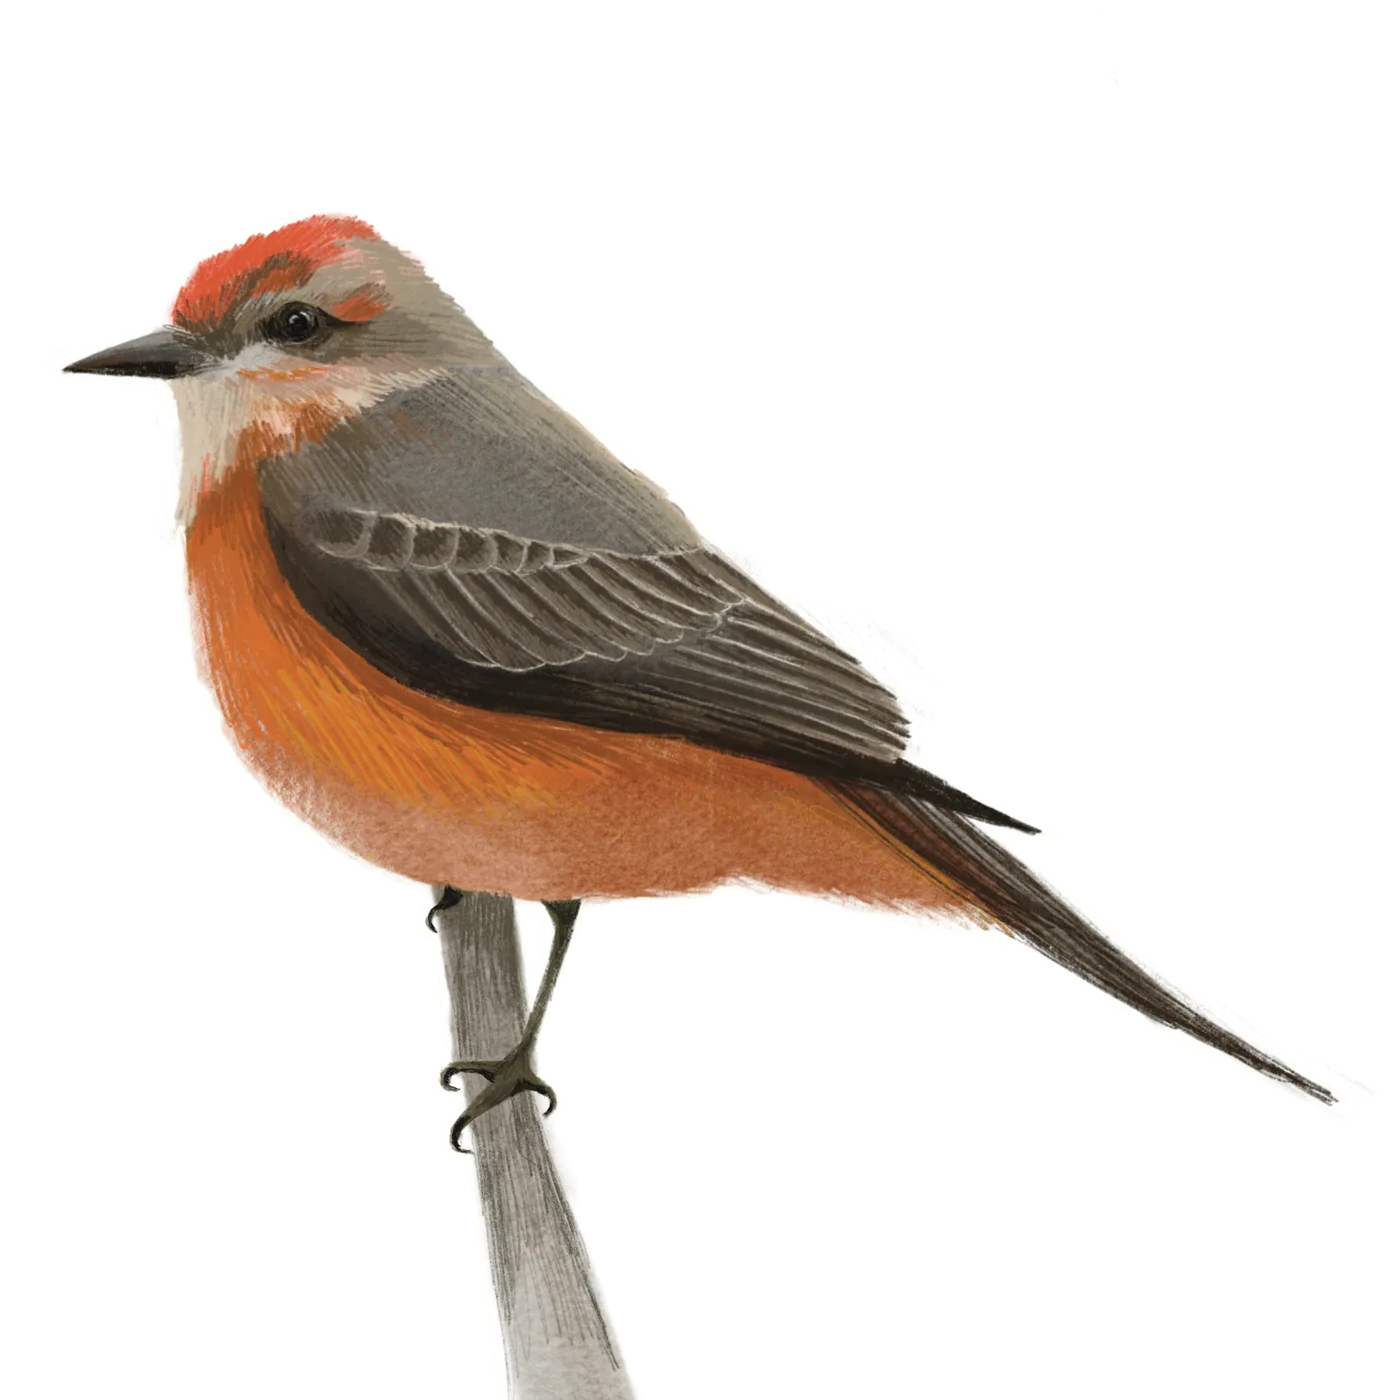
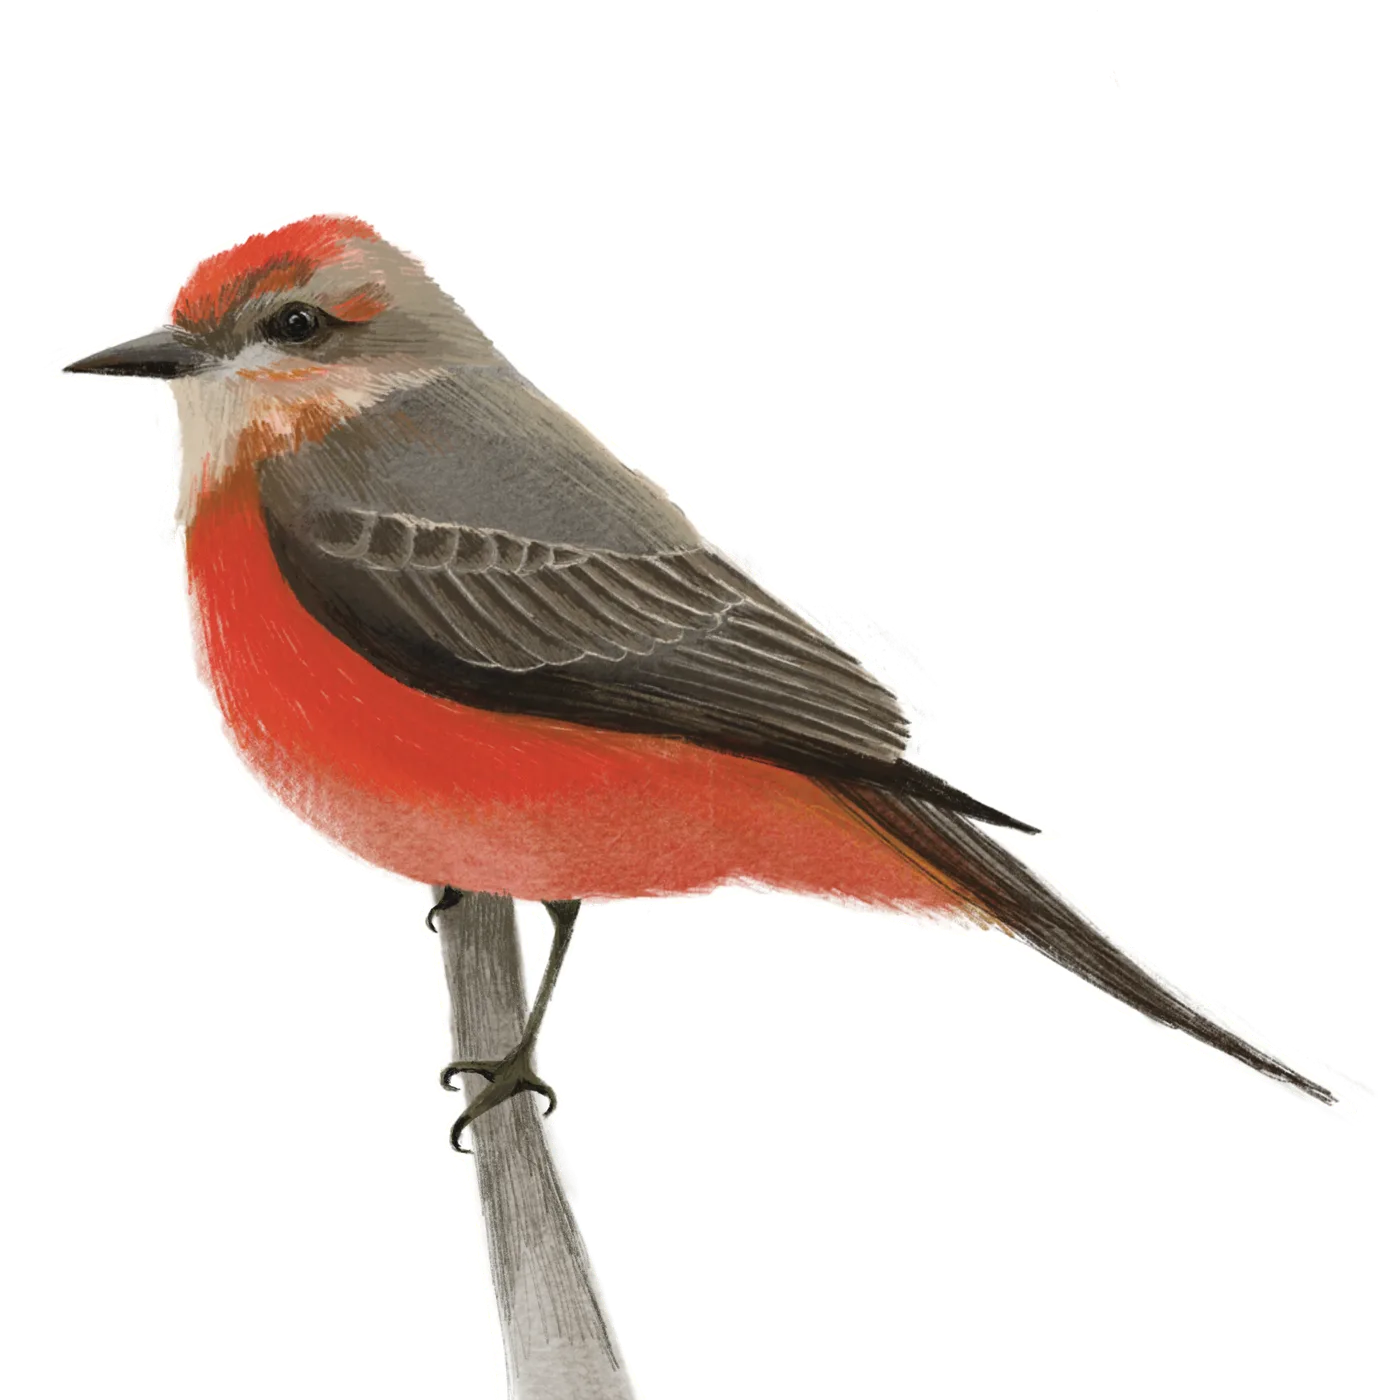
allow alternative names and add birds

Changed region(s): [[0.1229, 0.3686, 0.645, 0.645]]

diff --git a/src/data/artworks.js b/src/data/artworks.js
@@ -4,6 +4,7 @@
 // `observedOn` is the iNaturalist observation date, shown as written.
 // `conservationStatus` is optional: one of the IUCN Red List codes below.
 // `conservationUrl` (optional) links the status tag to the species' Red List page.
+// `altNames` (optional) lists other common names, shown as "Also known as …".
 // Shown in alphabetical order by common name.
 export const artworks = [
   {
@@ -155,6 +156,72 @@ export const artworks = [
     observedOn: 'May 20, 2016 · 11:52 AM CEST',
     hasSketch: true,
     conservationStatus: 'LC',
+  },
+  {
+    id: 'florida_scrub_jay',
+    name: 'Florida Scrub-Jay',
+    scientificName: 'Aphelocoma coerulescens',
+    lat: 26.8726862832,
+    lng: -82.2503801331,
+    credit: '© James Rogers',
+    observationUrl: 'https://www.inaturalist.org/observations/409244708',
+    observedOn: 'Oct 18, 2026 · 8:43 AM EDT',
+    hasSketch: true,
+    conservationStatus: 'VU',
+    conservationUrl: 'https://www.iucnredlist.org/species/22705629/179678639',
+  },
+  {
+    id: 'philippine_eagle',
+    name: 'Philippine Eagle',
+    scientificName: 'Pithecophaga jefferyi',
+    lat: 7.0563709555,
+    lng: 125.4092628149,
+    credit: '© Japheth Richa',
+    observationUrl: 'https://www.inaturalist.org/observations/408936922',
+    observedOn: 'September 2026',
+    hasSketch: true,
+    conservationStatus: 'CR',
+    conservationUrl: 'https://www.iucnredlist.org/species/22696012/273773083',
+  },
+  {
+    id: 'lessons_motmot',
+    name: "Lesson's Motmot",
+    altNames: ['Blue-diademed Motmot'],
+    scientificName: 'Momotus lessonii',
+    lat: 17.4445996239,
+    lng: -92.7704441592,
+    credit: '© Luis Antonio Cuervo Alba',
+    observationUrl: 'https://www.inaturalist.org/observations/406485361',
+    observedOn: 'Oct 4, 2026 · 10:44 AM CDT',
+    hasSketch: true,
+    conservationStatus: 'LC',
+    conservationUrl: 'https://www.iucnredlist.org/species/61634649/163627947'
+  },
+  {
+    id: 'baltimore_oriole',
+    name: 'Baltimore Oriole',
+    scientificName: 'Icterus galbula',
+    lat: 42.2656784,
+    lng: -83.0785739,
+    credit: '© Tom Preney',
+    observationUrl: 'https://www.inaturalist.org/observations/6679944',
+    observedOn: 'May 9, 2015 · 10:40 AM EDT',
+    hasSketch: true,
+    conservationStatus: 'LC',
+    conservationUrl: 'https://www.iucnredlist.org/species/22724126/132026652',
+  },
+  {
+    id: 'scaly_sided_merganser',
+    name: 'Scaly-sided Merganser',
+    scientificName: 'Mergus squamatus',
+    lat: 30.0633334634,
+    lng: 120.0634758108,
+    credit: '© xunjie_xi',
+    observationUrl: 'https://www.inaturalist.org/observations/364230833',
+    observedOn: 'March 2026',
+    hasSketch: true,
+    conservationStatus: 'EN',
+    conservationUrl: 'https://www.iucnredlist.org/species/22680488/244637355',
   },
 ].sort((a, b) => a.name.localeCompare(b.name))
 

diff --git a/src/games/GuessWho.jsx b/src/games/GuessWho.jsx
@@ -236,6 +236,9 @@ function Round({ art, number, total, score, onDone }) {
               </p>
               <h2 className="font-display text-3xl font-semibold">{art.name}</h2>
               <p className="text-lg text-stone-600 italic dark:text-stone-300">{art.scientificName}</p>
+              {art.altNames?.length > 0 && (
+                <p className="text-sm text-stone-600 dark:text-stone-400">Also known as {art.altNames.join(', ')}</p>
+              )}
             </div>
 
             <div
@@ -315,9 +318,12 @@ function BirdSearch({ exclude, onPick }) {
   const listRef = useRef(null)
 
   const q = query.trim().toLowerCase()
+  // Alternative names count too, so "Blue-diademed Motmot" finds Lesson's Motmot.
+  const matchedAlt = (a) => (q ? a.altNames?.find((n) => n.toLowerCase().includes(q)) : undefined)
   const options = artworks.filter(
     (a) =>
-      !exclude.includes(a.id) && (!q || a.name.toLowerCase().includes(q) || a.scientificName.toLowerCase().includes(q)),
+      !exclude.includes(a.id) &&
+      (!q || a.name.toLowerCase().includes(q) || a.scientificName.toLowerCase().includes(q) || matchedAlt(a)),
   )
 
   useEffect(() => setActive(0), [query])
@@ -399,7 +405,12 @@ function BirdSearch({ exclude, onPick }) {
               onMouseMove={() => setActive(i)}
               className={`cursor-pointer rounded-lg px-3 py-2 ${i === active ? 'bg-moss/10 dark:bg-moss-light/15' : ''}`}
             >
-              <span className="block text-sm font-semibold">{art.name}</span>
+              <span className="block text-sm font-semibold">
+                {art.name}
+                {matchedAlt(art) && (
+                  <span className="font-normal text-stone-500 dark:text-stone-400"> · also {matchedAlt(art)}</span>
+                )}
+              </span>
               <span className="block text-xs text-stone-500 italic dark:text-stone-400">{art.scientificName}</span>
             </li>
           ))}

diff --git a/src/components/DetailPanel.jsx b/src/components/DetailPanel.jsx
@@ -116,6 +116,9 @@ export default function DetailPanel({ art, index, total, onClose, onPrev, onNext
 
             <h2 className="mt-5 font-display text-3xl leading-tight font-semibold">{art.name}</h2>
             <p className="mt-1 text-lg text-stone-600 italic dark:text-stone-300">{art.scientificName}</p>
+            {art.altNames?.length > 0 && (
+              <p className="mt-1 text-sm text-stone-600 dark:text-stone-400">Also known as {art.altNames.join(', ')}</p>
+            )}
             {art.conservationStatus && (
               <ConservationTag status={art.conservationStatus} href={art.conservationUrl} className="mt-3" />
             )}

diff --git a/README.md b/README.md
@@ -19,6 +19,7 @@ npm run build
    - `art/<id>_sketch.png` is the sketch (optional).
 2. Add an entry with the same `id` to [`src/data/artworks.js`](src/data/artworks.js).
    - Optionally add `conservationStatus` with an IUCN Red List code (`EX`, `EW`, `CR`, `EN`, `VU`, `NT`, `LC` or `DD`) to show a colored status tag, and `conservationUrl` to link the tag to the species' IUCN Red List page.
+   - Optionally add `altNames` (for example `['Blue-diademed Motmot']`) for other common names. They show as "Also known as …" and are searchable in Guess who?.
 
 `npm run dev` and `npm run build` run `scripts/build-images.mjs` first and writes compressed WebP files to `public/art/`: a 1400px image for the viewer and a 256px thumbnail for the map. Commit the generated files in `public/art/`.
 
